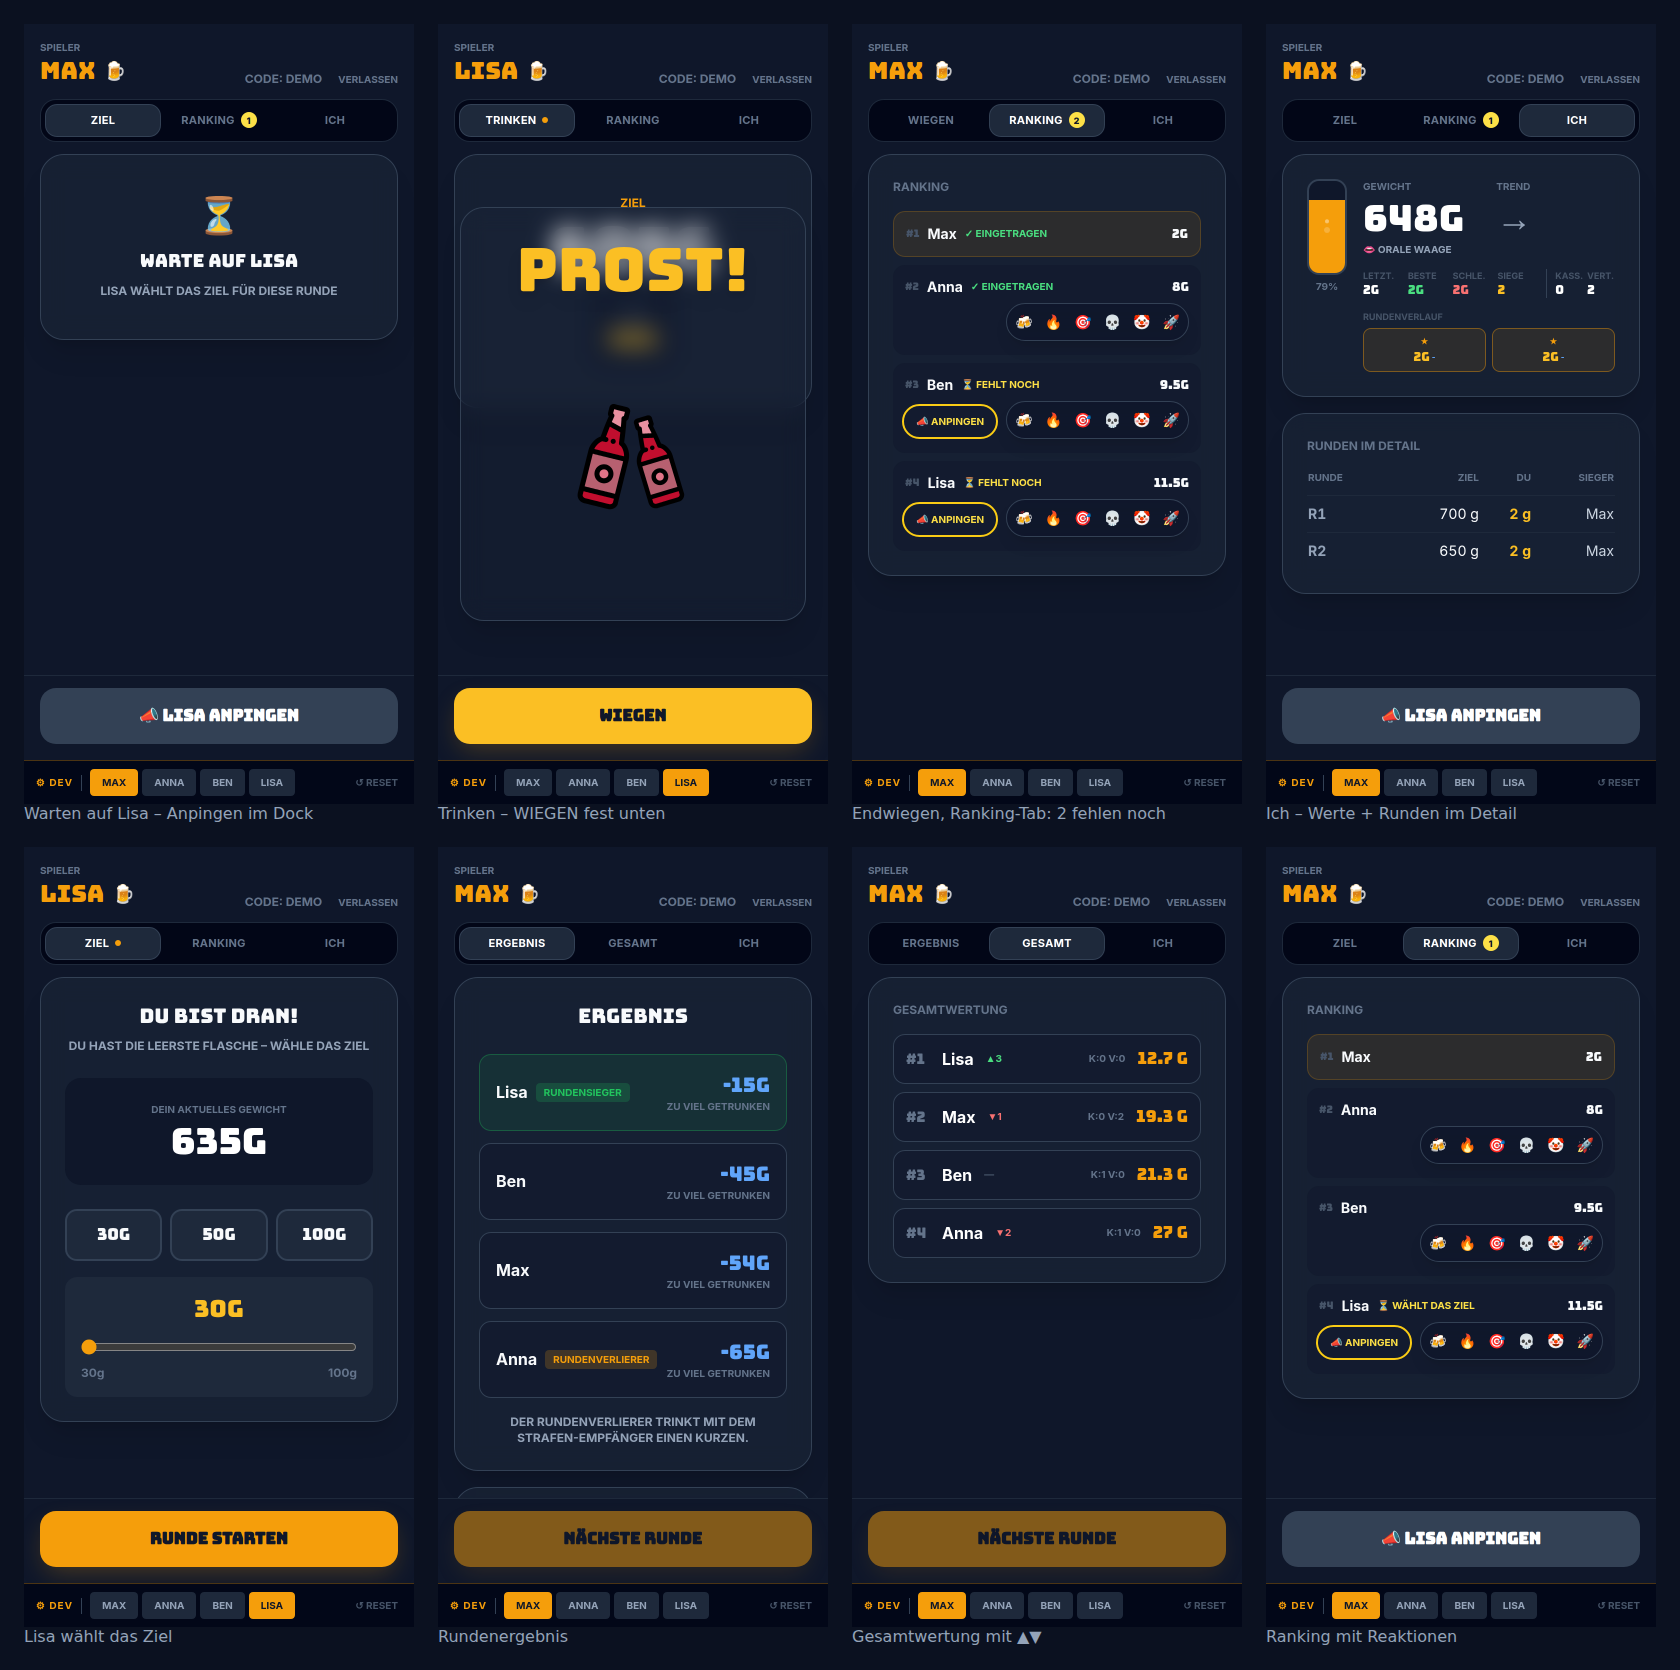
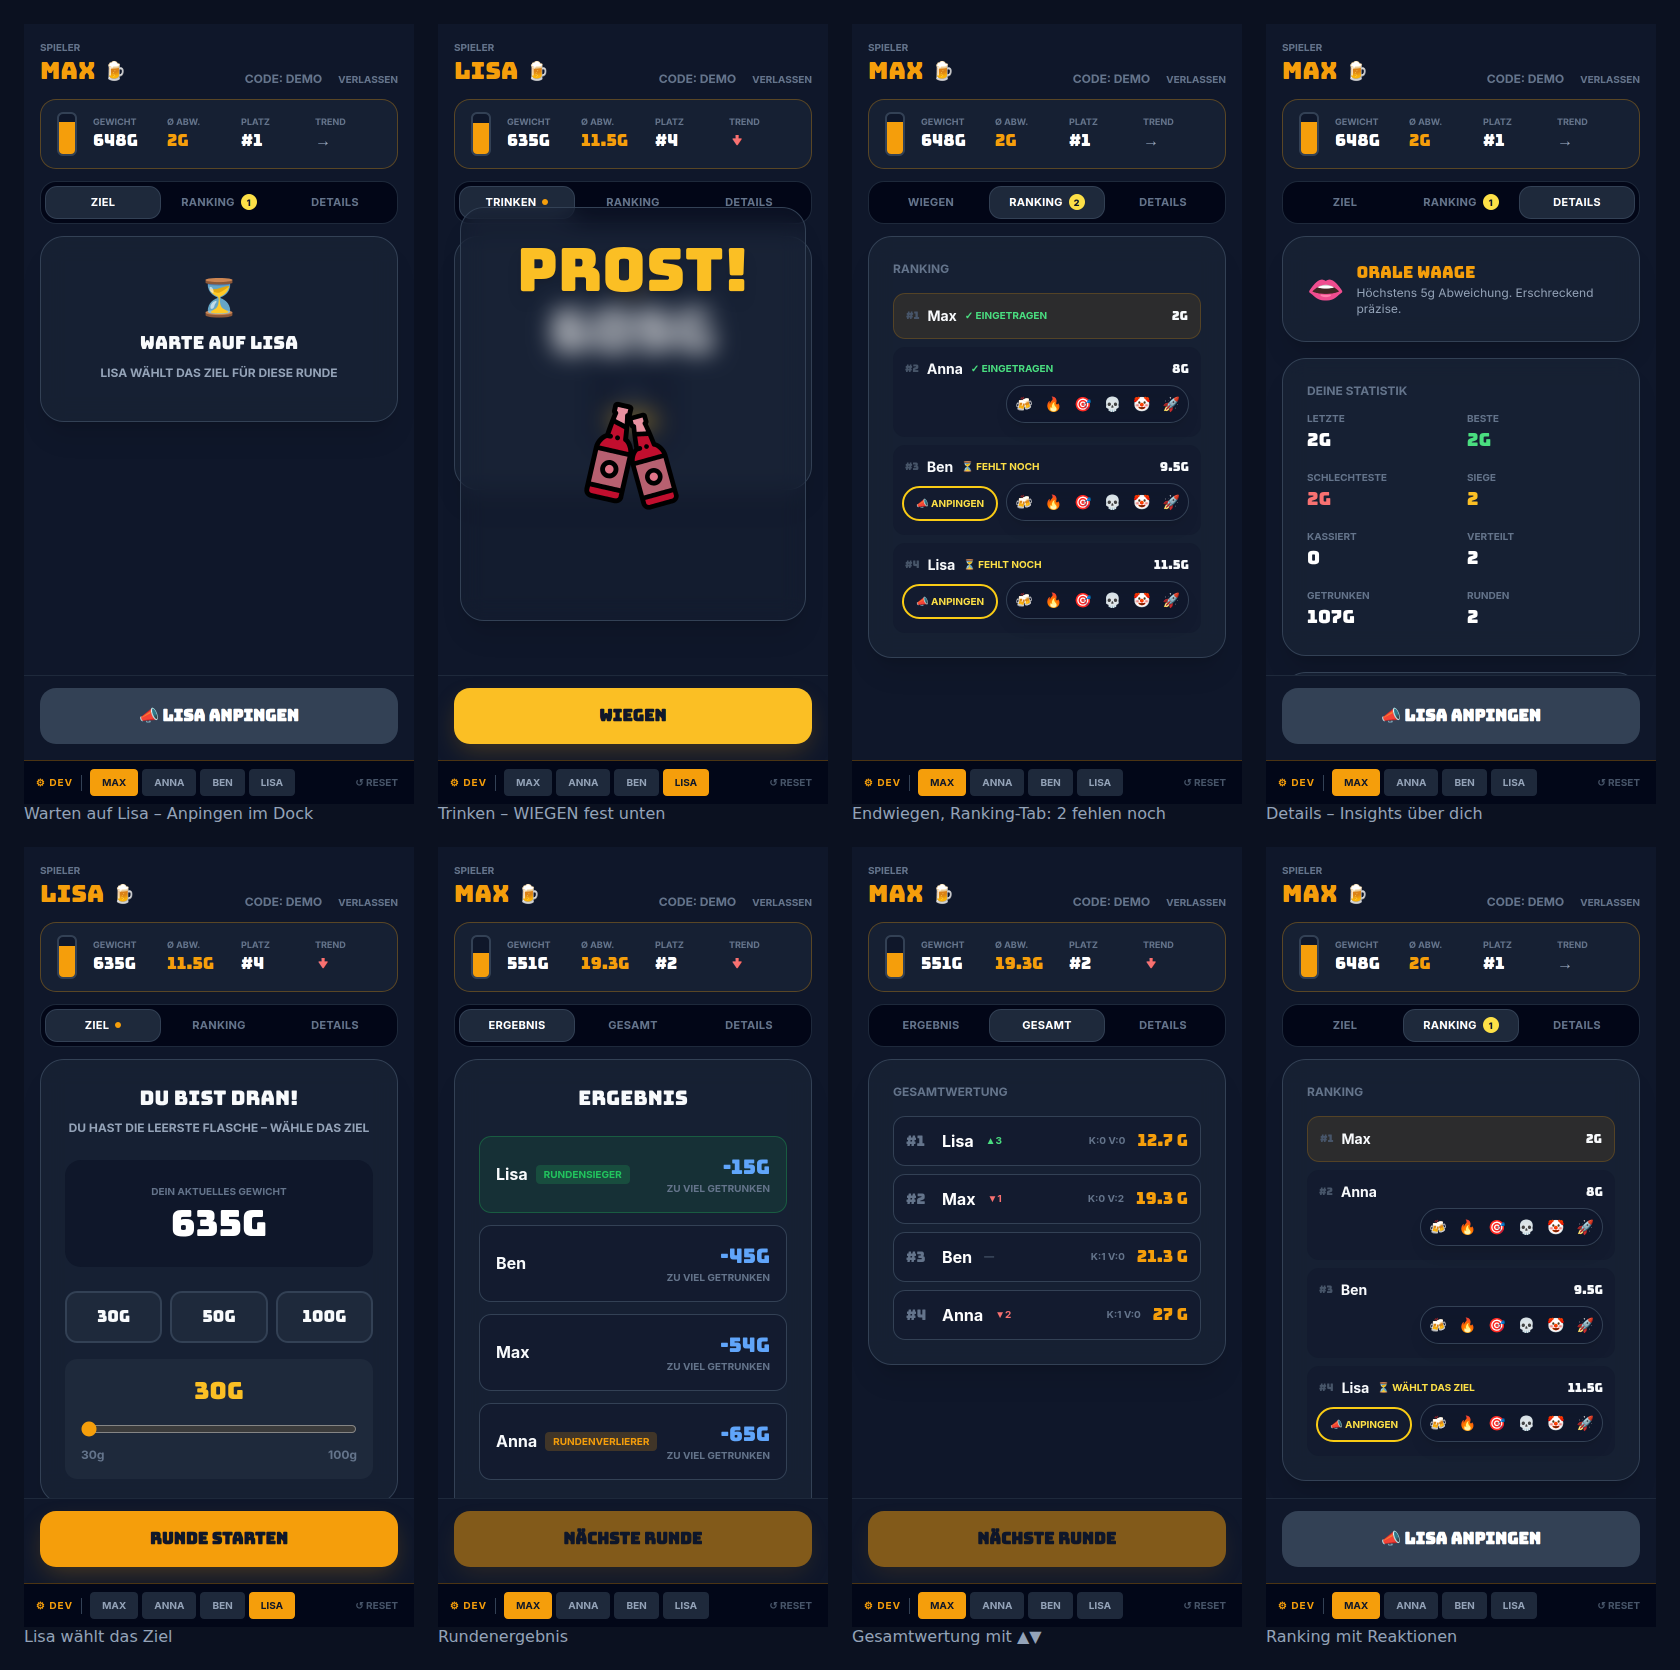
feat: Fester Werte-Streifen über den Tabs, Details-Seite mit Insights
Gewicht, Ø-Abweichung, Platz und Trend stehen jetzt dauerhaft als Streifen
über den Tabs. Der dritte Tab heißt Details und zeigt nur noch, was darüber
hinausgeht: Abzeichen mit Erklärung, Statistik (inkl. getrunkener Menge),
Rundenverlauf mit Legende und die Rundentabelle.

Claude-Session: https://claude.ai/code/session_01JdKZTUuq77X19j68M2MP5n

diff --git a/App.tsx b/App.tsx
@@ -4,7 +4,7 @@ import Lottie from 'lottie-react';
 import cheersAnimation from './src/assets/cheers.json';
 import { Game, GameStatus, Player, Round, Reaction, Ping, BottleSize, DrinkType } from './types';
 import { SupabaseGameRepository, isSupabaseConfigured } from './repositories/GameRepository';
-import { Card, Button, Input, BeerProgressBar, FloatingReaction, EmojiBar, PlacementCard, SwipeTabs, SwipePage, DotBadge, CountBadge } from './components/UI';
+import { Card, Button, Input, FloatingReaction, EmojiBar, PlacementCard, SwipeTabs, SwipePage, DotBadge, CountBadge } from './components/UI';
 import { BOTTLE_SIZES, DRINK_THEMES, DRINK_STORAGE_KEY, applyDrinkTheme } from './constants';
 import {
   calculateAverageDeviation,
@@ -118,7 +118,7 @@ const App: React.FC = () => {
   const channelRef = useRef<ReturnType<typeof repo.subscribeToGame> | null>(null);
   // Pings pro Spieler-ID: wann zuletzt angepingt und von wem. Lebt nur lokal.
   const [pings, setPings] = useState<Record<string, { at: number; from: string }>>({});
-  // Aktive Seite im In-Game-Dashboard (0 = Aufgabe, 1 = Ranking, 2 = Ich).
+  // Aktive Seite im In-Game-Dashboard (0 = Aufgabe, 1 = Ranking, 2 = Details).
   const [activePage, setActivePage] = useState(0);
   // Neue Phase oder angepingt → zurück zur Aufgabe, dort passiert jetzt etwas.
   useEffect(() => { setActivePage(0); }, [game?.status, game?.currentRoundIndex]);
@@ -891,80 +891,76 @@ VITE_SUPABASE_ANON_KEY=...</pre>
     : 'Trag dein Gewicht ein!';
 
   // ─── Dashboard-Seiten ──────────────────────────────────────────────────
-  const myCardContent = (
-    <>
-        {myPlayer && (
-          <Card className="border-amber-500/30">
-            {(() => {
-              const devs = myPlayer.deviations;
-              const tag = getPlayerPerformanceTag(myPlayer, game.players, game.rounds);
-              const best = devs.length ? Math.min(...devs) : null;
-              const worst = devs.length ? Math.max(...devs) : null;
-              const last = devs.length ? devs[devs.length - 1] : null;
-              const wins = getRoundWins(myPlayerId!, game.players, game.rounds);
-              return (
-                <div className="flex items-start gap-4">
-                  <BeerProgressBar progress={getDrinkingProgress(myPlayer.weights.slice(-1)[0] || 0, myPlayer.weights[0] || 0, game.bottleSize)} />
-                  <div className="flex-1 min-w-0">
-                    <div className="flex items-end gap-8 mb-1">
-                      <div>
-                        <div className="text-[10px] font-bold text-slate-500 uppercase mb-1">Gewicht</div>
-                        <div className="text-4xl font-bungee text-white">{myPlayer.weights.slice(-1)[0] || 0}g</div>
-                      </div>
-                      <div>
-                        <div className="text-[10px] font-bold text-slate-500 uppercase mb-1">Trend</div>
-                        <div className={`text-4xl font-bungee ${getDeviationTrend(devs).color}`}>{getDeviationTrend(devs).label}</div>
-                      </div>
+  // Details-Seite: alles, was über den festen Werte-Streifen hinausgeht.
+  const myCardContent = myPlayer && (() => {
+    const devs = myPlayer.deviations;
+    const tag = getPlayerPerformanceTag(myPlayer, game.players, game.rounds);
+    const best = devs.length ? Math.min(...devs) : null;
+    const worst = devs.length ? Math.max(...devs) : null;
+    const last = devs.length ? devs[devs.length - 1] : null;
+    const wins = getRoundWins(myPlayer.id, game.players, game.rounds);
+    const current = lastWeight(myPlayer);
+    const drunk = current !== null && myPlayer.weights[0] ? myPlayer.weights[0] - current : null;
+    const stat = (label: string, value: React.ReactNode, color = 'text-white') => (
+      <div className="min-w-0">
+        <div className="text-[10px] font-bold text-slate-500 uppercase truncate">{label}</div>
+        <div className={`text-lg font-bungee ${color}`}>{value}</div>
+      </div>
+    );
+    return (
+      <>
+        <Card className="border-amber-500/30">
+          <div className="flex items-center gap-3">
+            <span className="text-3xl leading-none">{tag.icon}</span>
+            <div className="min-w-0">
+              <div className="font-bungee text-amber-500 uppercase">{tag.label}</div>
+              <p className="text-xs text-slate-400">{tag.description}</p>
+            </div>
+          </div>
+        </Card>
+
+        <Card>
+          <h2 className="text-xs font-bold text-slate-500 uppercase mb-3">Deine Statistik</h2>
+          <div className="grid grid-cols-2 sm:grid-cols-4 gap-x-3 gap-y-4">
+            {stat('Letzte', last != null ? `${last}g` : '—')}
+            {stat('Beste', best != null ? `${best}g` : '—', 'text-green-400')}
+            {stat('Schlechteste', worst != null ? `${worst}g` : '—', 'text-red-400')}
+            {stat('Siege', wins, 'text-amber-400')}
+            {stat('Kassiert', myPlayer.penalties)}
+            {stat('Verteilt', getPenaltiesGiven(myPlayer.id, game.players, game.rounds))}
+            {stat('Getrunken', drunk != null ? `${drunk}g` : '—')}
+            {stat('Runden', devs.length)}
+          </div>
+        </Card>
+
+        {devs.length > 0 && (
+          <Card>
+            <h2 className="text-xs font-bold text-slate-500 uppercase mb-3">Rundenverlauf</h2>
+            <div className="flex gap-1.5">
+              {devs.map((dev, idx) => {
+                const playersWithDev = game.players.filter(p => p.deviations[idx] !== undefined);
+                const isWin = dev === Math.min(...playersWithDev.map(p => p.deviations[idx]));
+                const finalWeight = myPlayer.weights[idx + 1];
+                const target = game.rounds[idx]?.targetWeight;
+                const tooLittle = finalWeight != null && target != null && finalWeight > target;
+                const tooMuch = finalWeight != null && target != null && finalWeight < target;
+                return (
+                  <div key={idx} className={`flex-1 rounded-lg px-1 py-1.5 text-center border ${isWin ? 'bg-amber-500/10 border-amber-500/40' : 'bg-slate-800/60 border-slate-700'}`}>
+                    <div className={`text-[8px] font-bold uppercase mb-0.5 ${isWin ? 'text-amber-500' : 'text-slate-600'}`}>{isWin ? '★' : `R${idx + 1}`}</div>
+                    <div className="flex items-center justify-center gap-0.5 leading-none">
+                      <div className={`text-xs font-bungee ${isWin ? 'text-amber-400' : 'text-slate-300'}`}>{dev}g</div>
+                      <div className={`text-[8px] font-bold ${tooLittle ? 'text-red-400' : tooMuch ? 'text-blue-400' : 'text-green-400'}`}>{tooLittle ? '+' : tooMuch ? '-' : '●'}</div>
                     </div>
-                    <div className="text-[10px] font-bold text-slate-400 uppercase flex items-center gap-1 mb-3">
-                      {tag.icon} {tag.label}
-                    </div>
-                    <div className="flex items-start gap-1 mb-3">
-                      <div className="grid grid-cols-4 gap-1 flex-1 min-w-0">
-                        <div className="min-w-0"><div className="text-[9px] text-slate-600 font-bold uppercase truncate">Letzt.</div><div className="text-xs font-bungee text-white">{last ?? '—'}{last != null ? 'g' : ''}</div></div>
-                        <div className="min-w-0"><div className="text-[9px] text-slate-600 font-bold uppercase truncate">Beste</div><div className="text-xs font-bungee text-green-400">{best ?? '—'}{best != null ? 'g' : ''}</div></div>
-                        <div className="min-w-0"><div className="text-[9px] text-slate-600 font-bold uppercase truncate">Schle.</div><div className="text-xs font-bungee text-red-400">{worst ?? '—'}{worst != null ? 'g' : ''}</div></div>
-                        <div className="min-w-0"><div className="text-[9px] text-slate-600 font-bold uppercase truncate">Siege</div><div className="text-xs font-bungee text-amber-400">{wins}</div></div>
-                      </div>
-                      <div className="w-px self-stretch bg-slate-700 mx-1" />
-                      <div className="grid grid-cols-2 gap-1">
-                        <div className="min-w-0"><div className="text-[9px] text-slate-600 font-bold uppercase truncate">Kass.</div><div className="text-xs font-bungee text-white">{myPlayer.penalties}</div></div>
-                        <div className="min-w-0"><div className="text-[9px] text-slate-600 font-bold uppercase truncate">Vert.</div><div className="text-xs font-bungee text-white">{getPenaltiesGiven(myPlayerId!, game.players, game.rounds)}</div></div>
-                      </div>
-                    </div>
-                    {devs.length > 0 && (
-                      <>
-                        <div className="text-[9px] text-slate-600 font-bold uppercase mb-1">Rundenverlauf</div>
-                        <div className="flex gap-1.5">
-                          {devs.map((dev, idx) => {
-                            const playersWithDev = game.players.filter(p => p.deviations[idx] !== undefined);
-                            const isWin = dev === Math.min(...playersWithDev.map(p => p.deviations[idx]));
-                            const finalWeight = myPlayer.weights[idx + 1];
-                            const target = game.rounds[idx]?.targetWeight;
-                            const tooLittle = finalWeight != null && target != null && finalWeight > target;
-                            const tooMuch = finalWeight != null && target != null && finalWeight < target;
-                            return (
-                              <div key={idx} className={`flex-1 rounded-lg px-1 py-1.5 text-center border ${isWin ? 'bg-amber-500/10 border-amber-500/40' : 'bg-slate-800/60 border-slate-700'}`}>
-                                <div className={`text-[8px] font-bold uppercase mb-0.5 ${isWin ? 'text-amber-500' : 'text-slate-600'}`}>{isWin ? '★' : `R${idx + 1}`}</div>
-                                <div className="flex items-center justify-center gap-0.5 leading-none">
-                                  <div className={`text-xs font-bungee ${isWin ? 'text-amber-400' : 'text-slate-300'}`}>{dev}g</div>
-                                  <div className={`text-[8px] font-bold ${tooLittle ? 'text-red-400' : tooMuch ? 'text-blue-400' : 'text-green-400'}`}>{tooLittle ? '+' : tooMuch ? '-' : '●'}</div>
-                                </div>
-                              </div>
-                            );
-                          })}
-                        </div>
-                      </>
-                    )}
                   </div>
-                </div>
-              );
-            })()}
+                );
+              })}
+            </div>
+            <p className="text-[10px] text-slate-500 mt-2"><span className="text-red-400 font-bold">+</span> zu wenig · <span className="text-blue-400 font-bold">-</span> zu viel getrunken · ★ Rundensieg</p>
           </Card>
         )}
-
-    </>
-  );
+      </>
+    );
+  })();
 
   const taskContent = (
     <>
@@ -1596,7 +1592,7 @@ VITE_SUPABASE_ANON_KEY=...</pre>
     />
   );
 
-  // Rundenübersicht für die "Ich"-Seite: Ziel, eigene Abweichung, Sieger.
+  // Rundenübersicht für die Details-Seite: Ziel, eigene Abweichung, Sieger.
   const myRounds = myPlayer ? game.rounds.slice(0, myPlayer.deviations.length) : [];
   const roundsTable = myPlayer && myRounds.length > 0 && (
     <Card>
@@ -1645,7 +1641,7 @@ VITE_SUPABASE_ANON_KEY=...</pre>
     : game.players.filter(p => p.id !== myPlayerId && waitingOn(p)).length;
 
   const taskPage: SwipePage = { key: 'task', label: taskLabel[game.status], badge: iNeedToAct ? <DotBadge /> : undefined, content: taskContent };
-  const mePage: SwipePage = { key: 'me', label: 'Ich', content: <>{myCardContent}{roundsTable}</> };
+  const mePage: SwipePage = { key: 'me', label: 'Details', content: <>{myCardContent}{roundsTable}</> };
   const dashboardPages: SwipePage[] =
     game.status === GameStatus.SETUP ? [taskPage]
     : game.status === GameStatus.FINISHED ? [taskPage, mePage]
@@ -1710,6 +1706,29 @@ VITE_SUPABASE_ANON_KEY=...</pre>
             )}
           </div>
         </header>
+
+        {/* Fester Werte-Streifen: bleibt über allen Tabs stehen. Details liegen auf der Ich-Seite. */}
+        {myPlayer && game.status !== GameStatus.SETUP && (() => {
+          const devs = myPlayer.deviations;
+          const trend = getDeviationTrend(devs);
+          const rank = [...game.players]
+            .sort((a, b) => calculateAverageDeviation(a.deviations) - calculateAverageDeviation(b.deviations))
+            .findIndex(p => p.id === myPlayer.id) + 1;
+          const fill = Math.round(getDrinkingProgress(myPlayer.weights.slice(-1)[0] || 0, myPlayer.weights[0] || 0, game.bottleSize) * 100);
+          return (
+            <div className="flex items-center gap-4 px-4 py-3 rounded-2xl bg-slate-800/50 border border-amber-500/30">
+              <div className="w-5 h-11 shrink-0 rounded-md border-2 border-slate-700 bg-slate-900 overflow-hidden flex flex-col justify-end" aria-label={`Flasche ${fill}% voll`}>
+                <div className="w-full bg-amber-500 transition-all duration-1000" style={{ height: `${fill}%` }} />
+              </div>
+              <div className="flex-1 grid grid-cols-4 gap-2">
+                <div className="min-w-0"><div className="text-[9px] font-bold text-slate-500 uppercase truncate">Gewicht</div><div className="font-bungee text-base text-white">{myPlayer.weights.slice(-1)[0] ?? '—'}{myPlayer.weights.length ? 'g' : ''}</div></div>
+                <div className="min-w-0"><div className="text-[9px] font-bold text-slate-500 uppercase truncate">Ø Abw.</div><div className="font-bungee text-base text-amber-500">{devs.length ? `${calculateAverageDeviation(devs)}g` : '—'}</div></div>
+                <div className="min-w-0"><div className="text-[9px] font-bold text-slate-500 uppercase truncate">Platz</div><div className="font-bungee text-base text-white">{devs.length ? `#${rank}` : '—'}</div></div>
+                <div className="min-w-0"><div className="text-[9px] font-bold text-slate-500 uppercase truncate">Trend</div><div className={`font-bungee text-base ${trend.color}`}>{trend.label}</div></div>
+              </div>
+            </div>
+          );
+        })()}
 
         </div>
 
